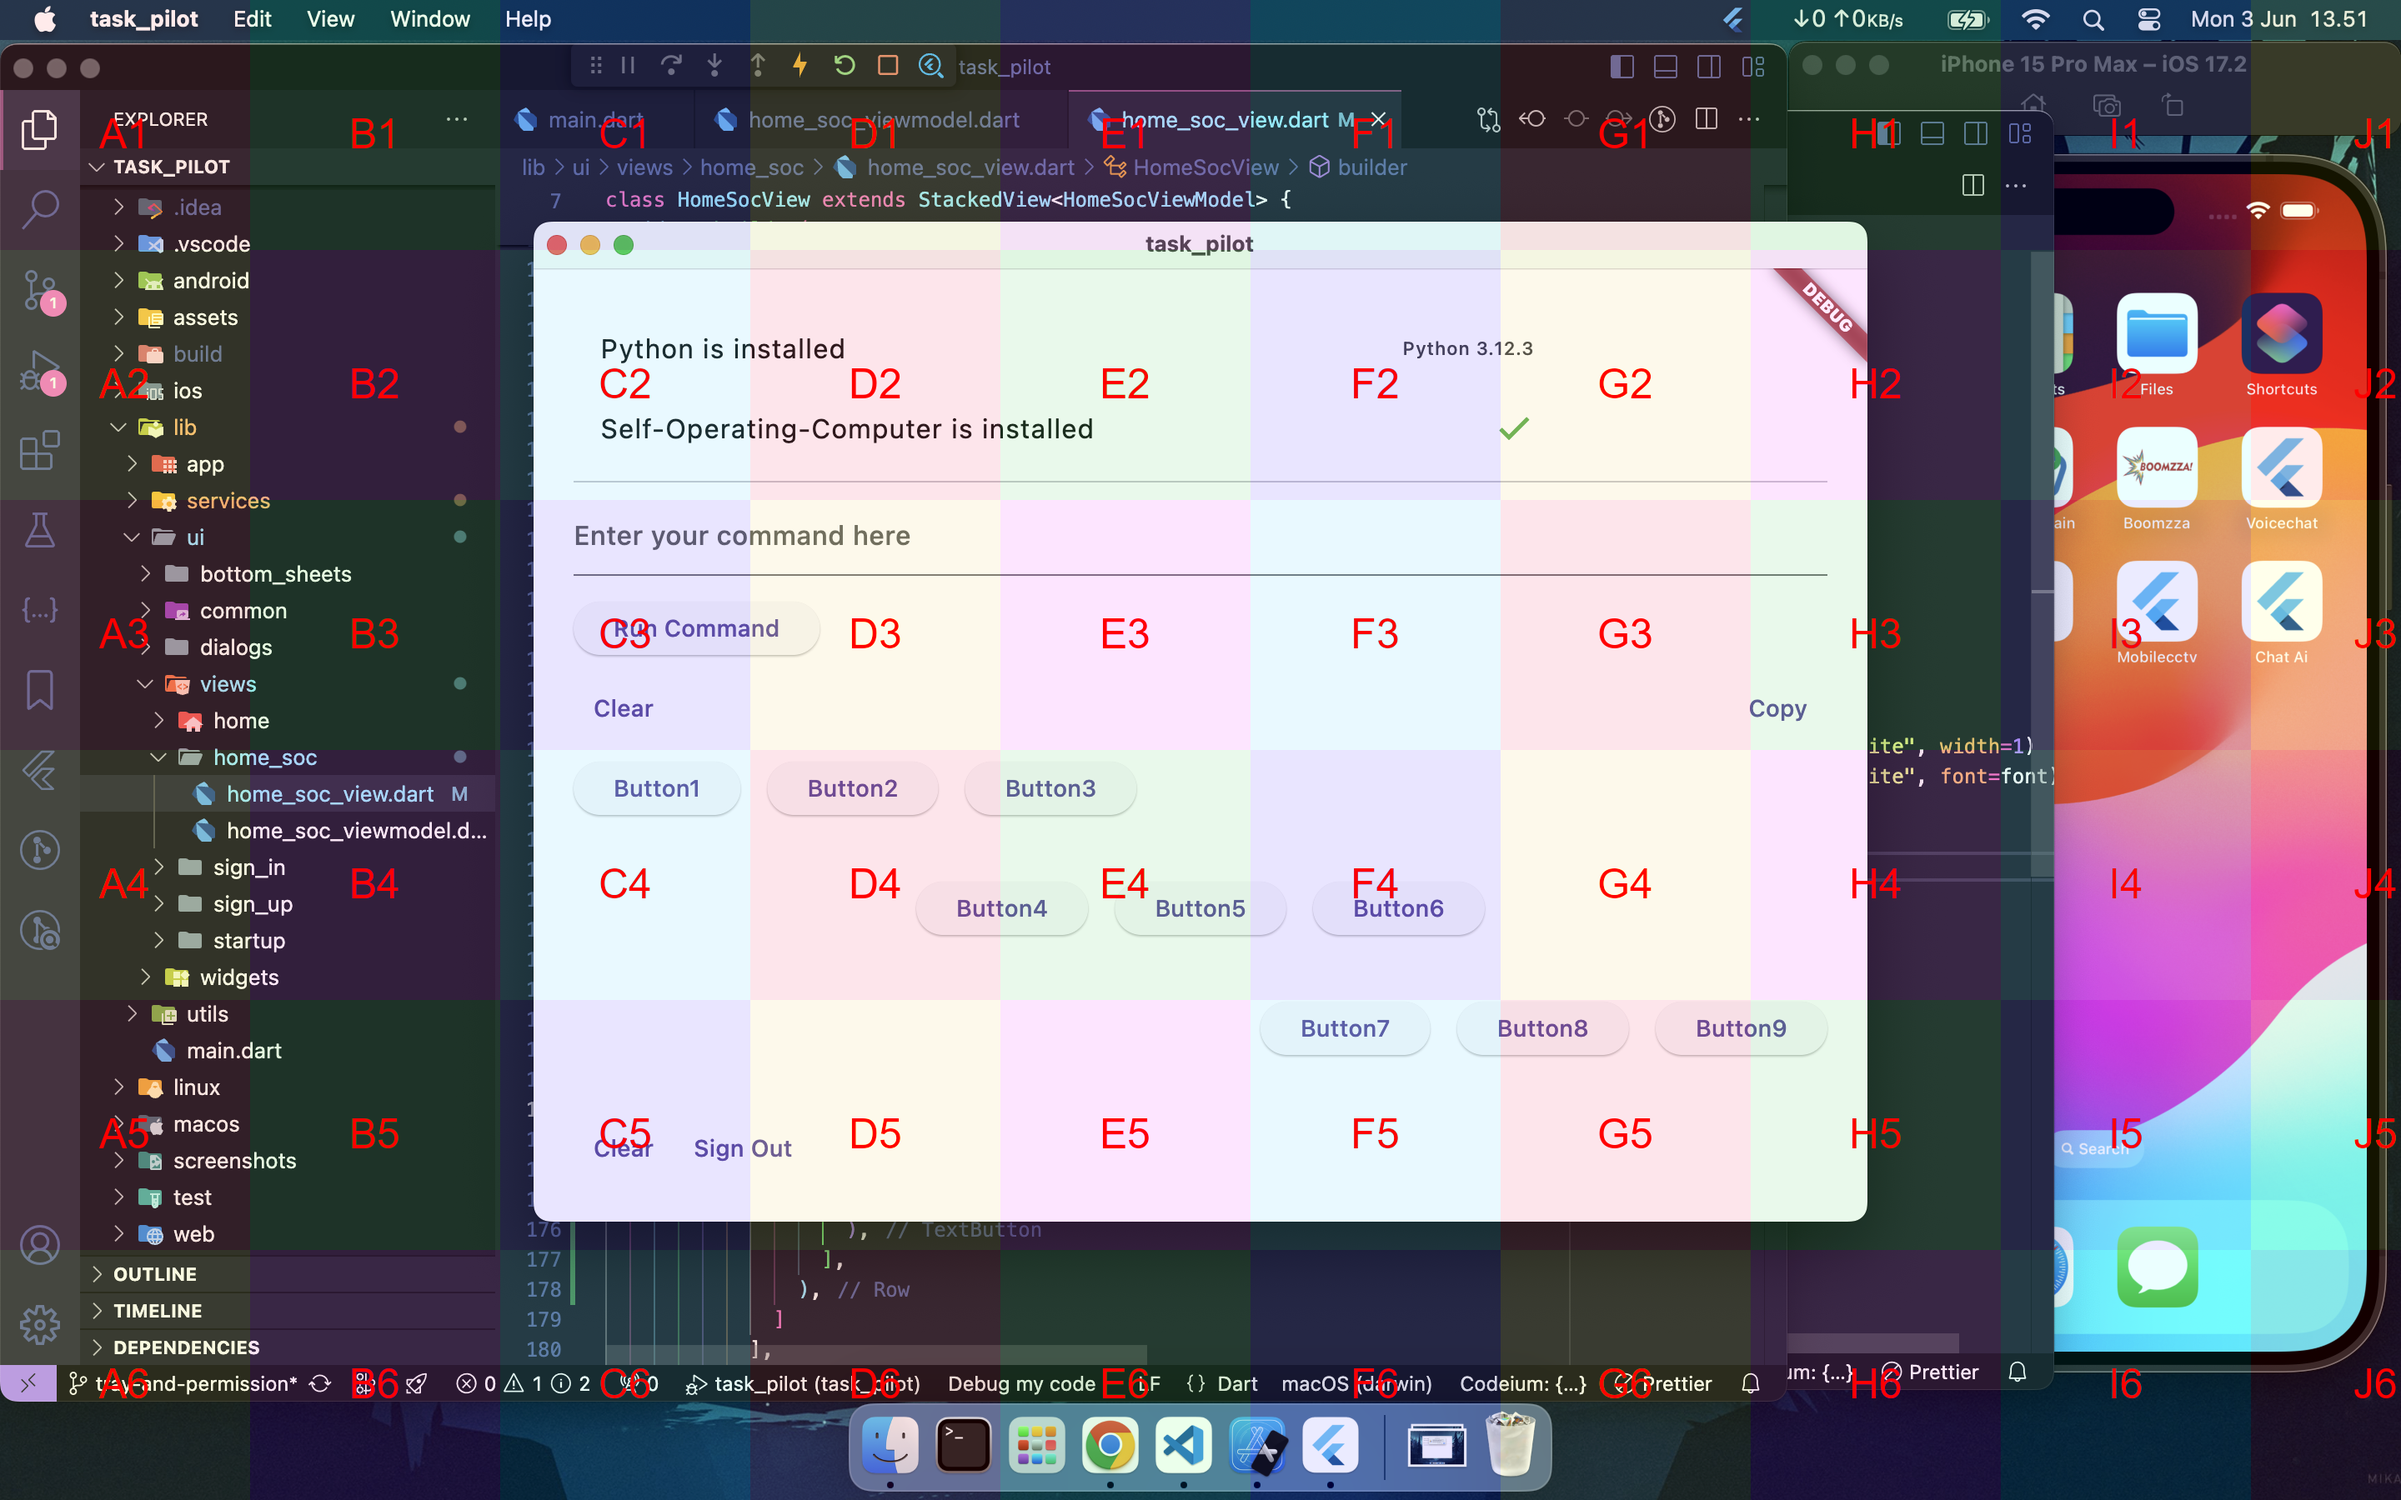
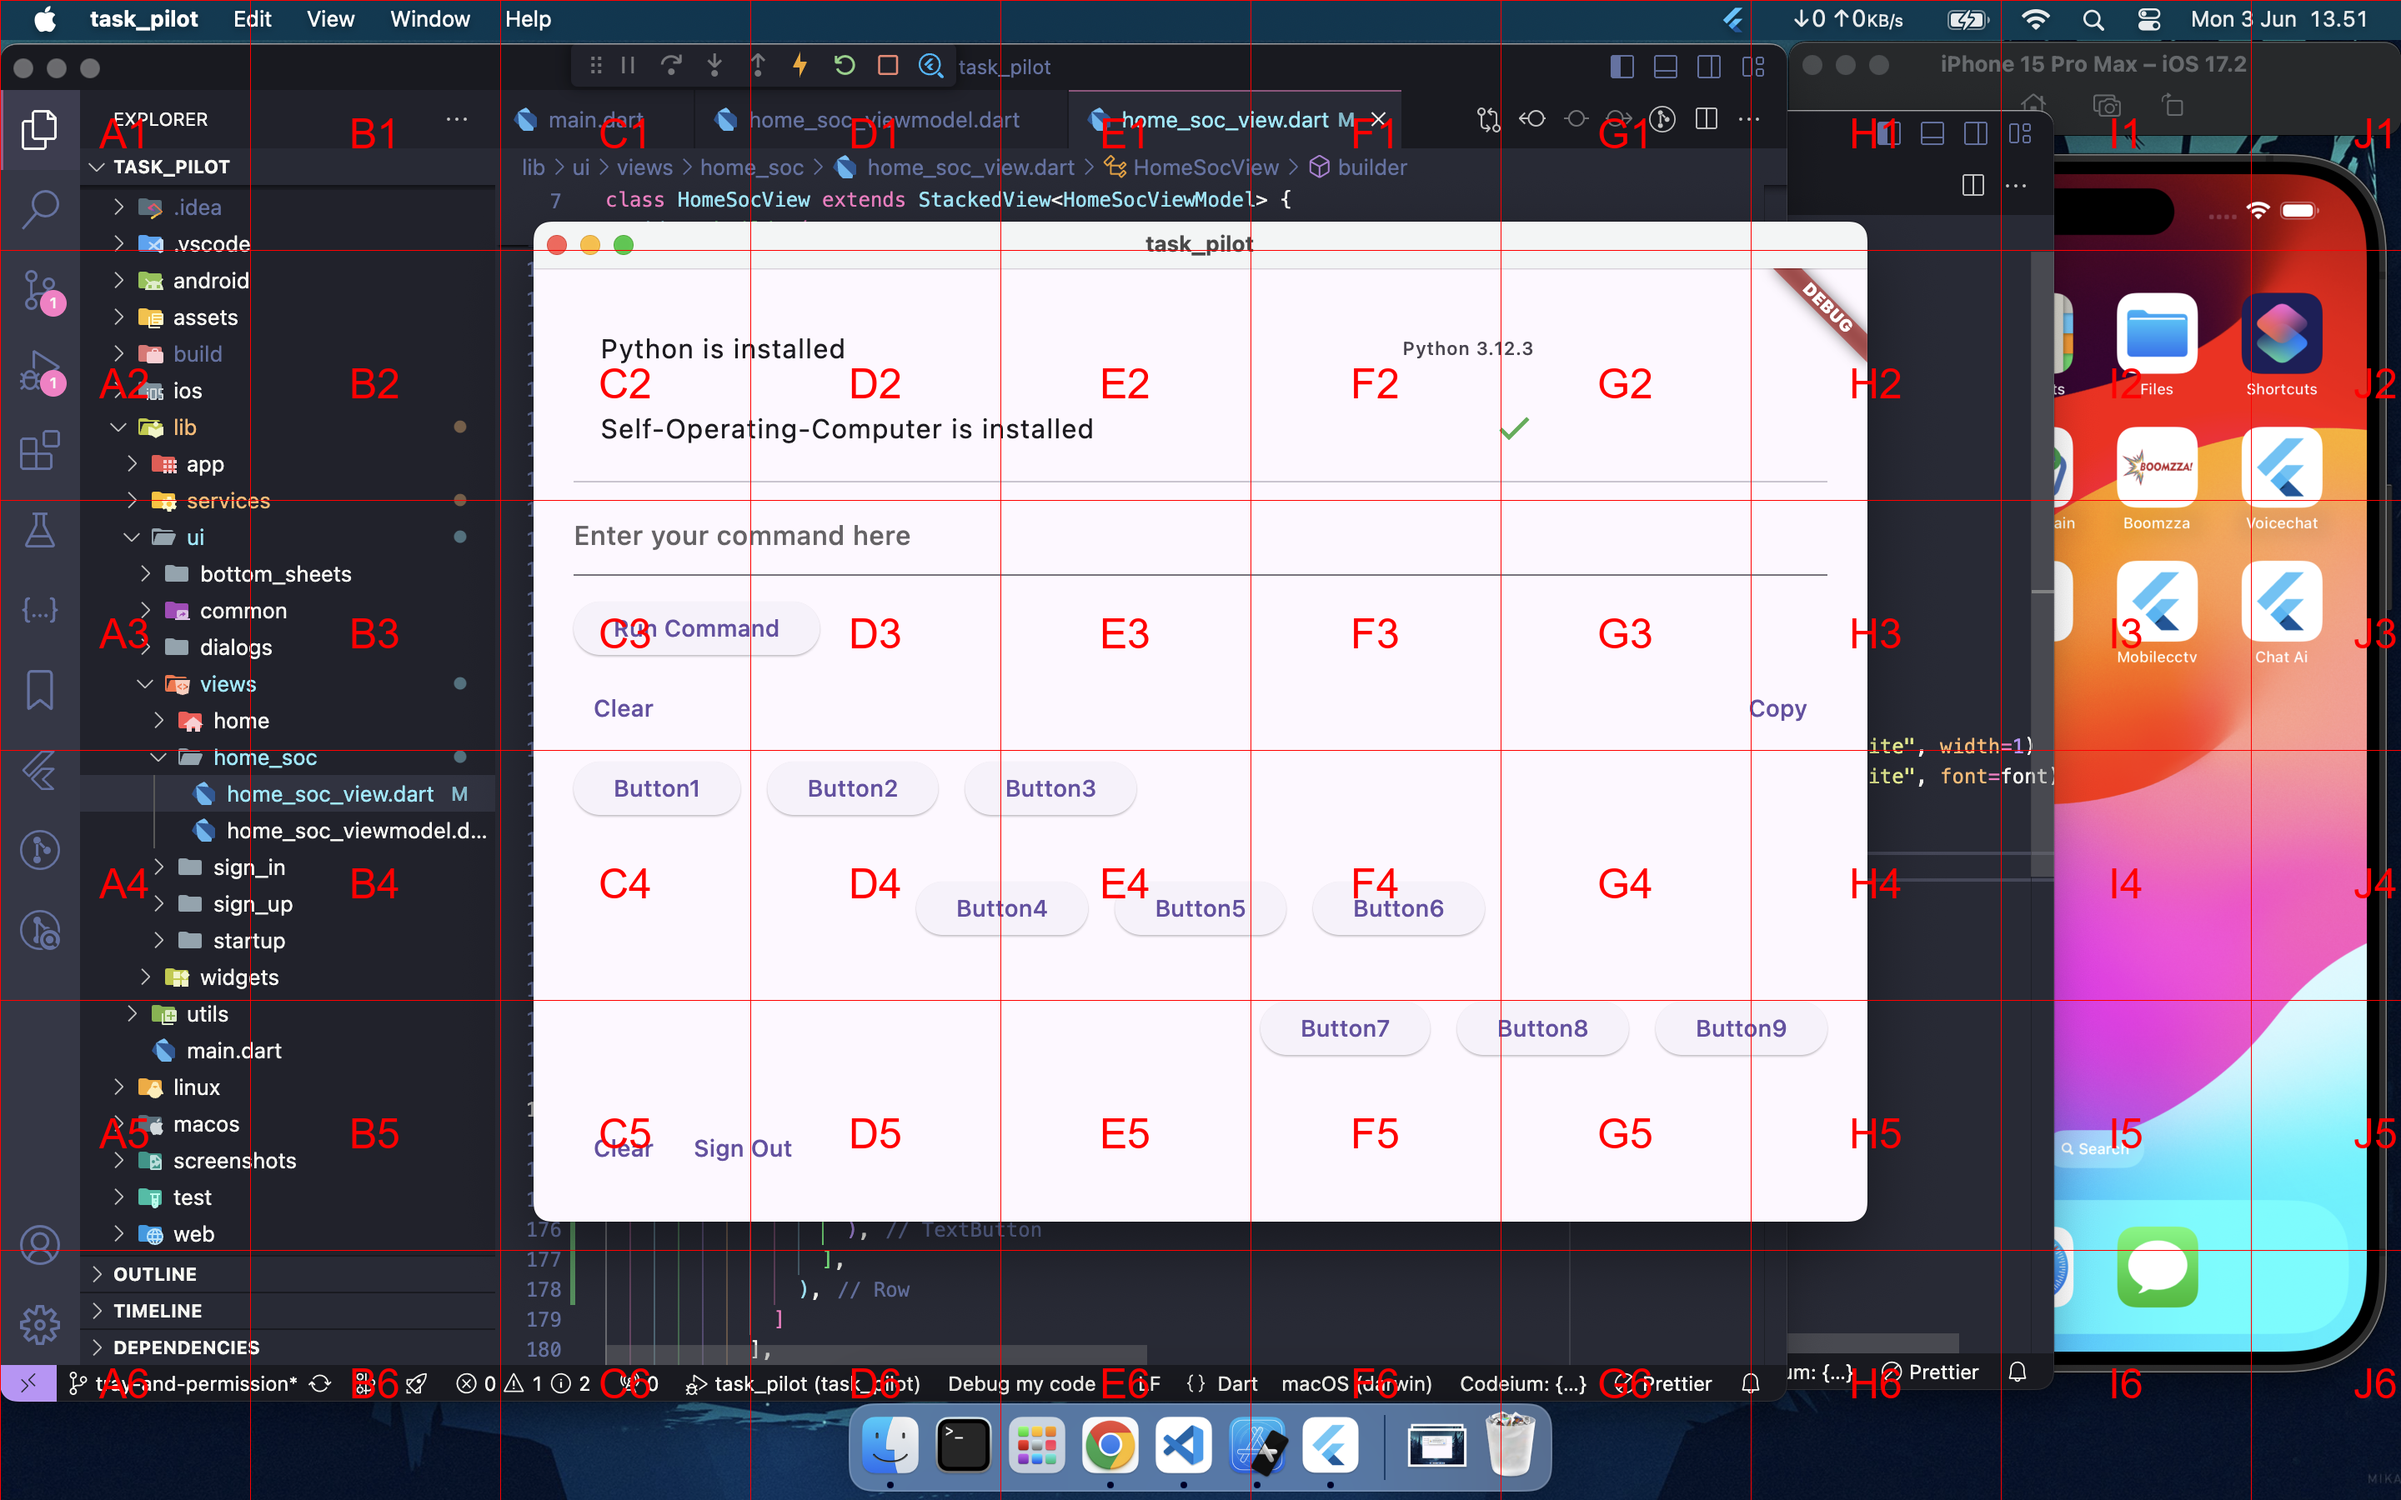
with letter, number center

diff --git a/add_grid.py b/add_grid.py
@@ -1,13 +1,12 @@
 from PIL import Image, ImageDraw, ImageFont
 
 def draw_grid(image_path, output_path, grid_size):
-    # Open the image (background)
-    background = Image.open(image_path)
-    width, height = background.size
-
-    # Create a new image with transparent background
-    image = Image.new("RGBA", (width, height), (255, 255, 255, 0))
+    # Open the image
+    image = Image.open(image_path)
     draw = ImageDraw.Draw(image)
+
+    # Get image dimensions
+    width, height = image.size
 
     # Load a font
     font = ImageFont.truetype("arial.ttf", 50)  # Specify a font and size
@@ -20,26 +19,10 @@ def draw_grid(image_path, output_path, grid_size):
             column = column // 26 - 1
         return result
 
-    # Opacity value
-    opacity = 20
-
-    # Define colors with reduced opacity
-    colors = [
-        (255, 0, 0, opacity),    # Red with transparency
-        (0, 255, 0, opacity),    # Green with transparency
-        (0, 0, 255, opacity),    # Blue with transparency
-        (255, 255, 0, opacity),  # Yellow with transparency
-        (255, 0, 255, opacity),  # Magenta with transparency
-        (0, 255, 255, opacity)   # Cyan with transparency
-    ]
-
     # Draw vertical and horizontal lines and coordinates
     for x in range(0, width, grid_size):
         for y in range(0, height, grid_size):
-            # Determine color based on overall position
-            color_index = (x // grid_size) + (y // grid_size * (width // grid_size))
-            color = colors[color_index % len(colors)]
-            draw.rectangle([(x, y), (x+grid_size, y+grid_size)], outline=None, fill=color)
+            draw.rectangle([(x, y), (x+grid_size, y+grid_size)], outline="red", width=1)
             column_letter = column_to_letter(x // grid_size)
             row_number = y // grid_size + 1
             coordinate = f"{column_letter}{row_number}"
@@ -51,11 +34,12 @@ def draw_grid(image_path, output_path, grid_size):
             text_y = y + (grid_size - text_height) // 2
             draw.text((text_x, text_y), coordinate, fill="red", font=font)
 
-    # Combine the background image with the grid image
-    combined = Image.alpha_composite(background.convert("RGBA"), image)
+    # Konversi gambar ke mode RGB sebelum menyimpan
+    if image.mode == 'RGBA':
+        image = image.convert('RGB')
 
-    # Save the output image
-    combined.save(output_path)
+    # Simpan gambar output
+    image.save(output_path)
 
-# Example usage
+# Contoh penggunaan
 draw_grid("input_image.png", "output_image_with_grid.png", 300)
